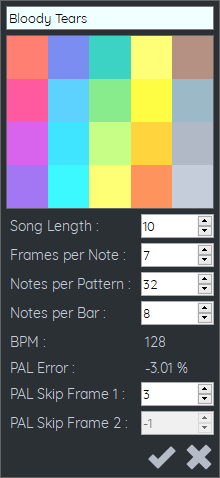
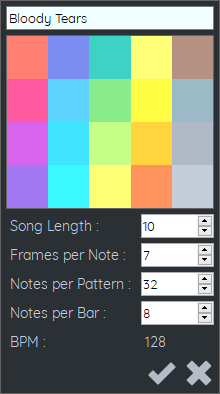
Updating doc.

diff --git a/FamiStudio/Source/Utils/TempoUtils.cs b/FamiStudio/Source/Utils/TempoUtils.cs
@@ -192,7 +192,7 @@ namespace FamiStudio
                 numNotes[n - 1] = bestNumNotes;
                 frameCounts[n - 1] = bestFrameCount;
 
-                Debug.WriteLine($"Note Length {n} Error = {minOverallError:0.##} ms Must skip {n * bestNumNotes - bestFrameCount} frames over {bestNumNotes} Notes");
+                Debug.WriteLine($"Note Length {n} Error = {minOverallError:0.00} ms ({minOverallError * 100.0f / (float)(n * bestNumNotes * FrameTimeMsNTSC):0.00} %) Must skip {n * bestNumNotes - bestFrameCount} frames over {bestNumNotes} Notes");
             }
         }
 #endif

diff --git a/Docs/docs/song.md b/Docs/docs/song.md
@@ -20,40 +20,42 @@ The tempo mode will affect how the tempo of you songs is calculated, how much co
 
 In this mode, you always have control over every single frame (1/60th of a second of the song) and you always edit in NTSC. You will be able to choose a **Note Length** which has a fixed number a frame (1/60s). More frames means a slower tempo. 
 
+The biggest different with FamiTracker tempo is in the wait it handles PAL conversion. 
+
 For example, in the image below, we have a 7 NTSC frames (1/60th of a sec) per note. On PAL system, it takes only 6 frames (1/50th of a sec) to cover approximately the same amount of time. 
 
 ![](images/NtscPalFrames.png#center)
 
-Since our song is edited and stored as NTSC and we want to faitfully play it back on PAL systems, the solution is to run 2 NTSC frames, once every notes (twice if notes are >= 10 frames long). You can choose which of the frames will be skipped in the tempo settings. Note that the frame is not really skipped but merely run extremely fast. In the exemple below, on PAL systems, frame #2 is will almost impossible to hear since its sound will immediately be replaced by frame #3.
+Since our song is edited and stored as NTSC and we want to faitfully play it back on PAL systems, FamiStudio will sometimes run 2 NTSC frames in a single PAL frame so it can keep up with NTSC. 
 
 ![](images/PalSkipFrames.png#center)
 
-This will lead to a small error in playback speed on PAL system, but a very predictable behavior. 
+To make the PAL playback speed even more similar, the frame skips are ditributed over multiple notes, leading to a PAL playback speed error that is always less that 0.15%. 
 
-This table shows the relation between the number of NTSC frames, number of PAL frames and the tempo error generated.
+This table sumarizes the number of frames that will be skipped on PAL for different note length, as well as their exact positions inside the notes.
 
-Number of NTSC frames (1/60 sec) | Number of PAL frames (1/50 sec) | NTSC time (ms) | PAL time (ms) | Diff (ms) | Error (%) | BPM
---- | --- | --- | --- | --- | --- | ---
-1 | 1 | 16.64 | 20.00 | 3.357933 | -20.18% | 900.0 
-2 | 2 | 33.28 | 39.99 | 6.715866 | -20.18% | 450.0 
-3 | 3 | 49.92 | 59.99 | 10.0738 | -20.18% | 300.0 
-4 | 3 | 66.56 | 59.99 | -6.56547 | 10.94% | 225.0 
-5 | 4 | 83.20 | 79.99 | -3.20754 | 4.01% | 180.0 
-6 | 5 | 99.84 | 99.99 | 0.150398 | -0.15% | 150.0 
-7 | 6 | 116.47 | 119.98 | 3.508331 | -3.01% | 128.6 
-8 | 7 | 133.11 | 139.98 | 6.866264 | -5.16% | 112.5 
-9 | 8 | 149.75 | 159.98 | 10.2242 | -6.83% | 100.0 
-10 | 8 | 166.39 | 159.98 | -6.41507 | 4.01% | 90.0 
-11 | 9 | 183.03 | 179.97 | -3.05714 | 1.70% | 81.8 
-12 | 10 | 199.67 | 199.97 | 0.300796 | -0.15% | 75.0 
-13 | 11 | 216.31 | 219.97 | 3.658729 | -1.69% | 69.2 
-14 | 12 | 232.95 | 239.97 | 7.016662 | -3.01% | 64.3 
-15 | 13 | 249.59 | 259.96 | 10.37459 | -4.16% | 60.0 
-16 | 14 | 266.23 | 279.96 | 13.73253 | -5.16% | 56.3 
+Number of NTSC frames (1/60 sec) | Number of frames skipped by PAL | Position of skipped frames | BPM
+--- | --- | --- | ---
+1 | 1 frame every 6 notes | 0 | 900.0 
+2 | 1 frame every 3 notes | 1 | 450.0 
+3 | 1 frame every 2 notes | 1 | 300.0 
+4 | 2 frames every 3 notes | 2 | 225.0 
+5 | 5 frames every 6 note | 2 | 180.0 
+6 | 1 frames every 1 note | 2 | 150.0 
+7 | 7 frames every 6 note | 2, 4 | 128.6 
+8 | 4 frames every 3 note | 2, 5, | 112.5 
+9 | 3 frames every note | 2, 6 | 100.0 
+10 | 5 frames every 3 note | 2, 7 | 90.0 
+11 | 11 frames every 6 note | 2, 8 | 81.8 
+12 | 2 frames every 1 note | 3, 8 | 75.0 
+13 | 11 frames every 5 note | 2, 6, 10 | 69.2 
+14 | 7 frames every 3 note | 2, 6, 11 | 64.3 
+15 | 5 frames every 2 note  | 2, 7, 12 | 60.0 
+16 | 8 frames every 3 note | 3, 8, 12 | 56.3 
+17 | 20 frames every 7 note | 3, 8, 13 | 52.9
+18 | 3 frames every 1 note | 3, 8, 14 | 50.0
 
-Note that BPM values outside of the ones in this table can be created by putting multiples notes into a larger one. 
-
-For example, Gimmick! uses a 11 frames per note, but puts 2 notes inside it. One of 5 frames and one of 6 frames. This creates an approximate tempo of 163.6 BPM and the different note lengths is not audible.
+Note that you arent not limited to the BPM values suggested by the different note lengths. You can create in-between ones by putting multiples notes into a larger one. For example, Gimmick! uses a 11 frames per note, but puts 2 notes inside it. One of 5 frames and one of 6 frames. This creates an approximate tempo of 163.6 BPM and the different note lengths is not audible.
 
 ![](images/GimmickNote.png#center)
 
@@ -71,10 +73,7 @@ Delayed notes and delayed cuts are not supported and will likely never be as the
 
 Double-clicking on the a song will allow you to change its name, color and other attributes. Names must be unique.
 
-This dialog will look very different depending on:
-
-* The **Tempo Mode** of the current project.
-* If the project uses expansion audio or not. Expansion audio cannot run on PAL, so all PAL-related information will be hidden.
+This dialog will look very different depending on the **Tempo Mode** of the current project.
 
 FamiStudio Tempo | FamiTracker tempo
 --- | ---
@@ -94,6 +93,7 @@ Properties unique FamiTracker tempo mode:
 Properties unique FamiStudio tempo mode:
 
 * **Frames Per Notes**: How many frames (1/60th) in a typical notes. Values between 5 and 16 are recommended as they create the least error on PAL system.
-* **PAL Skip Frame 1**: Which frame will be skipped on PAL system. To keep up with NTSC, PAL will advance twice in one frame, once per note (twice in Frames Per Notes >= 10).
-* **PAL Skip Frame 2**: Second frame to skip on PAL system. Only applies when Frames Per Notes >= 10.
 
+These parameters will affect the look of the piano roll. 
+
+![](images/PianoRollFrames.png#center)

diff --git a/Docs/docs/importexport.md b/Docs/docs/importexport.md
@@ -105,8 +105,8 @@ Here is an example of a very short file:
 			Envelope Type="DutyCycle" Length="1" Values="2"
 		Instrument Name="Lead2"
 			Envelope Type="Volume" Length="12" Values="15,12,11,9,7,6,5,4,3,2,1,1"
-		Song Name="Tutorial Song" Length="5" LoopPoint="1" PatternLength="16" BarLength="4" NoteLength="7" PalSkipFrames="3,-1"
-			PatternCustomSettings Time="0" Length="10" NoteLength="7" BarLength="4" PalSkipFrames="3,-1"
+		Song Name="Tutorial Song" Length="5" LoopPoint="1" PatternLength="16" BarLength="4" NoteLength="7"
+			PatternCustomSettings Time="0" Length="10" NoteLength="7" BarLength="4"
 			Channel Type="Square1"
 				Pattern Name="Intro1"
 					Note Time="0" Value="G3" Instrument="Lead"
@@ -163,14 +163,12 @@ Song | Name | Yes | The name of the song.
 | PatternLength | Yes | The number of notes in a pattern.
 | BarLength | Yes | The number of notes in a bar.
 | NoteLength | Yes | (FamiStudio tempo only) The number of frames in a note. 
-| PalSkipFrames | Yes | (FamiStudio tempo only) The pal skip frames. 1 value if NoteLength < 10, 2 otherwise.
 | Tempo | Yes | (FamiTracker tempo only) The FamiTracker tempo.
 | Speed | Yes | (FamiTracker tempo only) The FamiTracker speed.
 PatternCustomSettings | Time | Yes | Index of the column of pattern that uses these custom settings.
 | Length | Yes | The custom length (in notes or frames) of the pattern.
 | NoteLength | Yes | (FamiStudio tempo only) The number of frames in a note. 
 | BarLength | Yes | (FamiStudio tempo only) The number of notes in a bar.
-| PalSkipFrames | Yes | (FamiStudio tempo only) The pal skip frames. 1 value if NoteLength < 10, 2 otherwise.
 Channel | Type | Yes | Square1, Square2, Triangle, Noise, DPCM, VRC6Square1, VRC6Square2, VRC6Saw, VRC7FM1, VRC7FM2, VRC7FM3, VRC7FM4, VRC7FM5, VRC7FM6, FDS, MMC5Square1, MMC5Square2, MMC5DPCM, N163Wave1, N163Wave2, N163Wave3, N163Wave4, N163Wave5, N163Wave6, N163Wave7, N163Wave8, S5BSquare1, S5BSquare2 or S5BSquare3 
 Pattern | Name | Yes | Name of the pattern.
 Note | Time | Yes | The frame (or note) number inside the pattern where this note is.

diff --git a/Docs/docs/sequencer.md b/Docs/docs/sequencer.md
@@ -70,11 +70,11 @@ Double clicking on the header of sequencer will allow you to set some customs se
 
 ![](images/CustomPatternSettings.png#center)
 
-This dialog will look quite different depending on the tempo mode you are using. To learn more about tempo modes, please check out the [Project properties section](song.md). PAL support is disabled when any kind of expansion audio is used.
+This dialog will look quite different depending on the tempo mode you are using. To learn more about tempo modes, please check out the [Project properties section](song.md). 
 
-FamiStudio Tempo<br/>(with PAL support) | FamiStudio Tempo<br/>(No PAL support) | FamiTracker tempo
---- | ---  | ---
-![](images/CustomPatternSettingsWithPAL.png#center) | ![](images/CustomPatternSettingsNoPAL.png#center) | ![](images/CustomPatternSettingsFamiTracker.png#center) 
+FamiStudio Tempo | FamiTracker tempo
+---  | ---
+![](images/CustomPatternSettingsNoPAL.png#center) | ![](images/CustomPatternSettingsFamiTracker.png#center) 
 
 Enabling **Custom Pattern** will allow you to change the values. Once a pattern has any kind of custom setting, it will no longer take its values from the Song's properties and will be display with a **asterisk (*)** next to its index in the Sequencer.
 

diff --git a/Docs/docs/pianoroll.md b/Docs/docs/pianoroll.md
@@ -6,6 +6,19 @@ The Piano Roll is where you editing the actual notes of the song, the instrument
 
 You can also use it to preview instrument by clicking on the keyboard. The currently selected instrument (in the project explorer) will play on the currently selected channel (in the sequencer).
 
+## Subdivision
+
+Horizontal lines in the piano rolls are align with the notes of the piano. The vertical lines represents multiple levels of subdivisions:
+
+* Thick black lines seperate patterns (not shown in this image)
+* Thin black lines seperate bars (a bar is a simple group of notes, purely a visual aid)
+* Thin gray lines seperate notes
+* Thin dashes gray lines seperate individual NTSC frames, 1/60th of a sec. (FamiStudio tempo mode only)
+
+In FamiTracker tempo mode, you do not have access to the individual frames, so the dashes lines will not be visible.
+
+![](images/PianoRollFrames.png#center)
+
 ## Seeking
 
 Clicking in the timeline (header) of the piano roll will move the play position.
